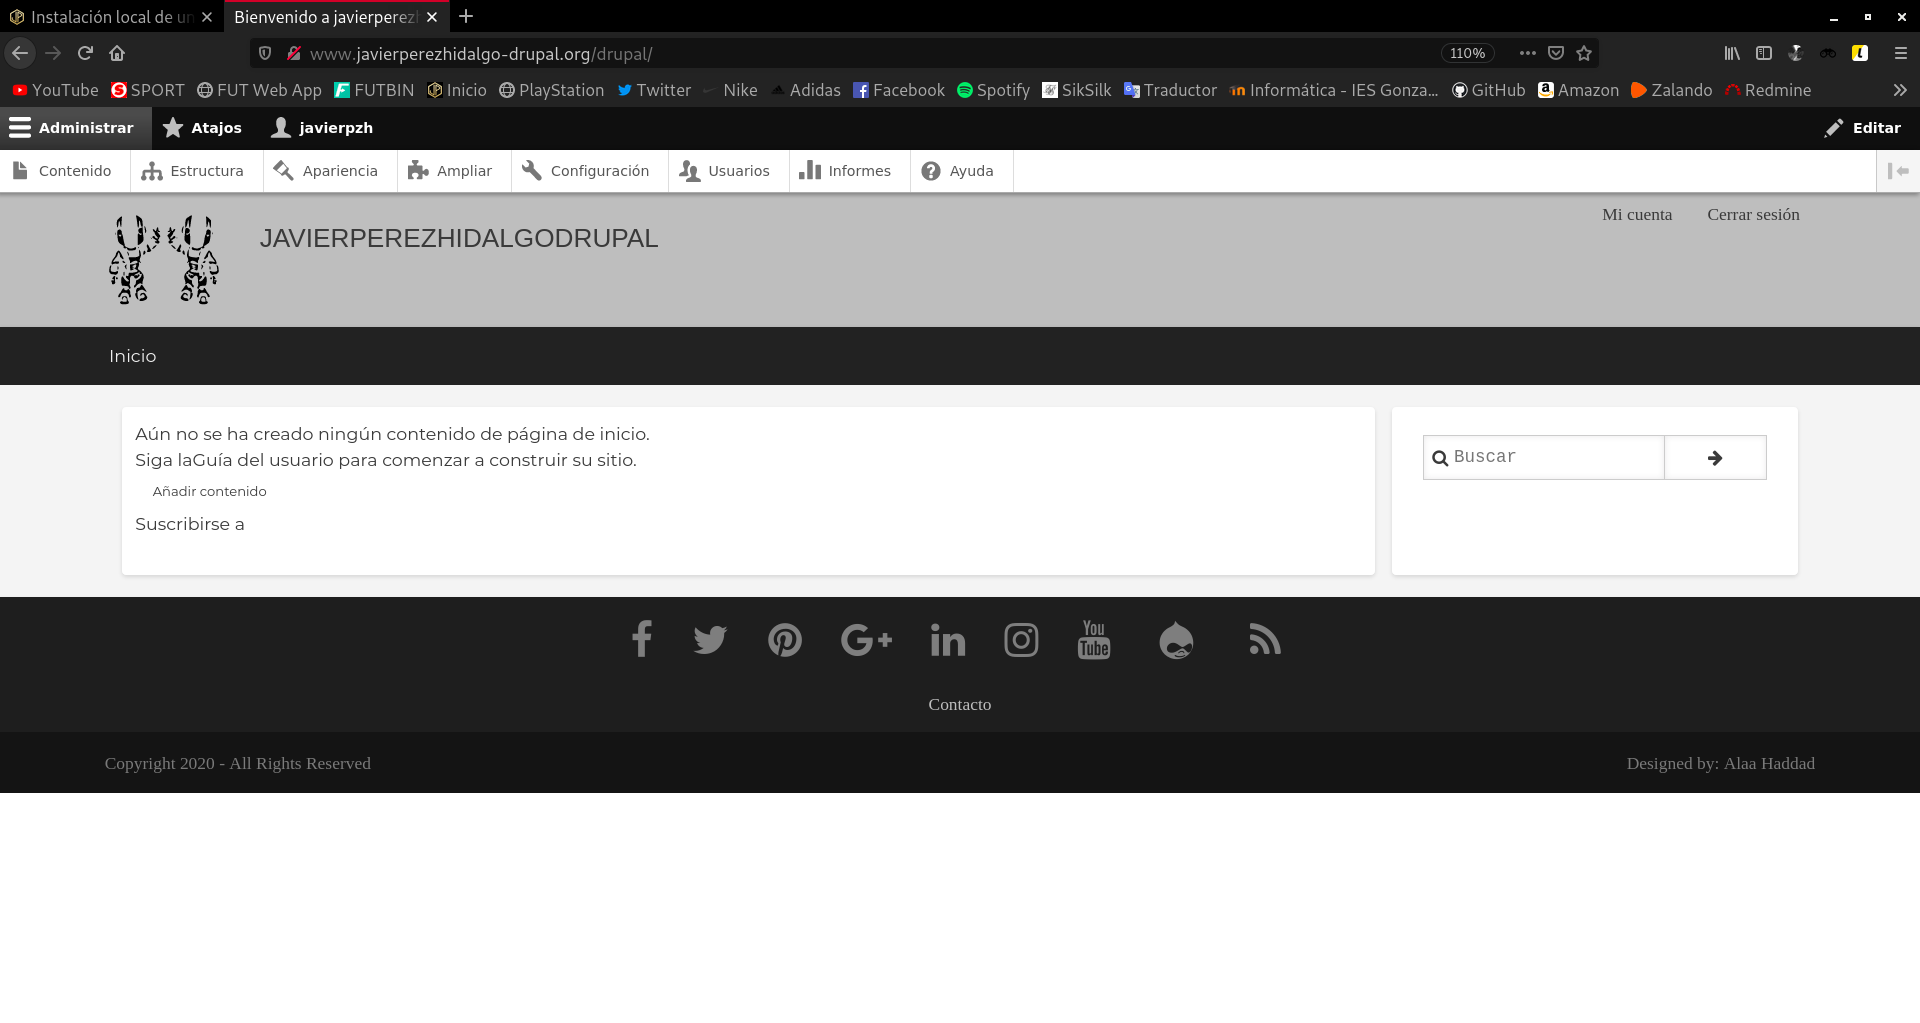
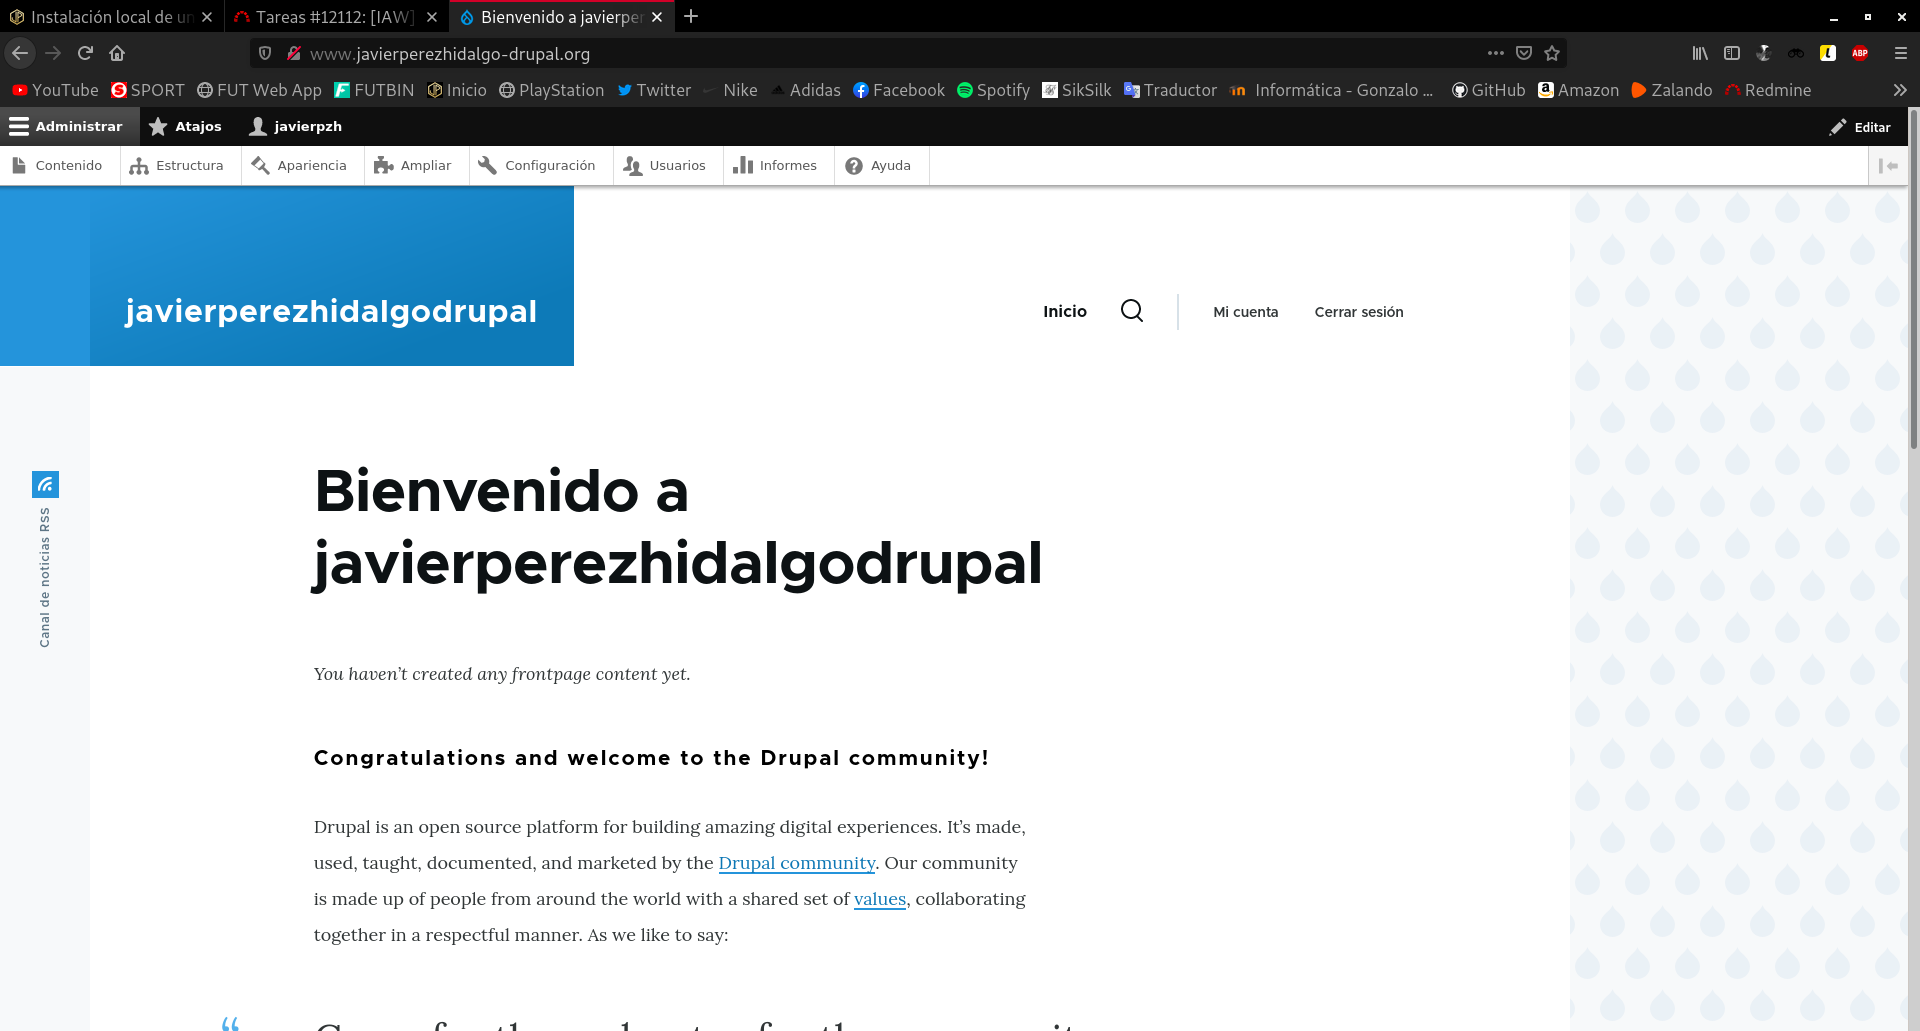
cambios

diff --git a/content/iaw_instalacion_local_de_un_CMS_PHP.md b/content/iaw_instalacion_local_de_un_CMS_PHP.md
@@ -379,9 +379,7 @@ Completamos según nuestras preferencias y guardamos y listo:
 
 Para **cambiar el tema de nuestro CMS**, nos dirigimos a la opción que nos aparece arriba, **Apariencia** y seleccionamos `+ Instalar nuevo tema`, introducimos el enlace de descarga del tema que queremos añadir y listo. Cuidado, tenemos que comprobar que el tema que vamos a instalar es compatible con la versión de *Drupal* que estamos utilizando.
 
-![.](images/iaw_instalacion_local_de_un_cms_php/temainstalado.png)
-
-Lo seleccionamos como activo:
+Una vez tenemos instalado el tema que queremos, lo seleccionamos como activo:
 
 ![.](images/iaw_instalacion_local_de_un_cms_php/temaseleccionado.png)
 
